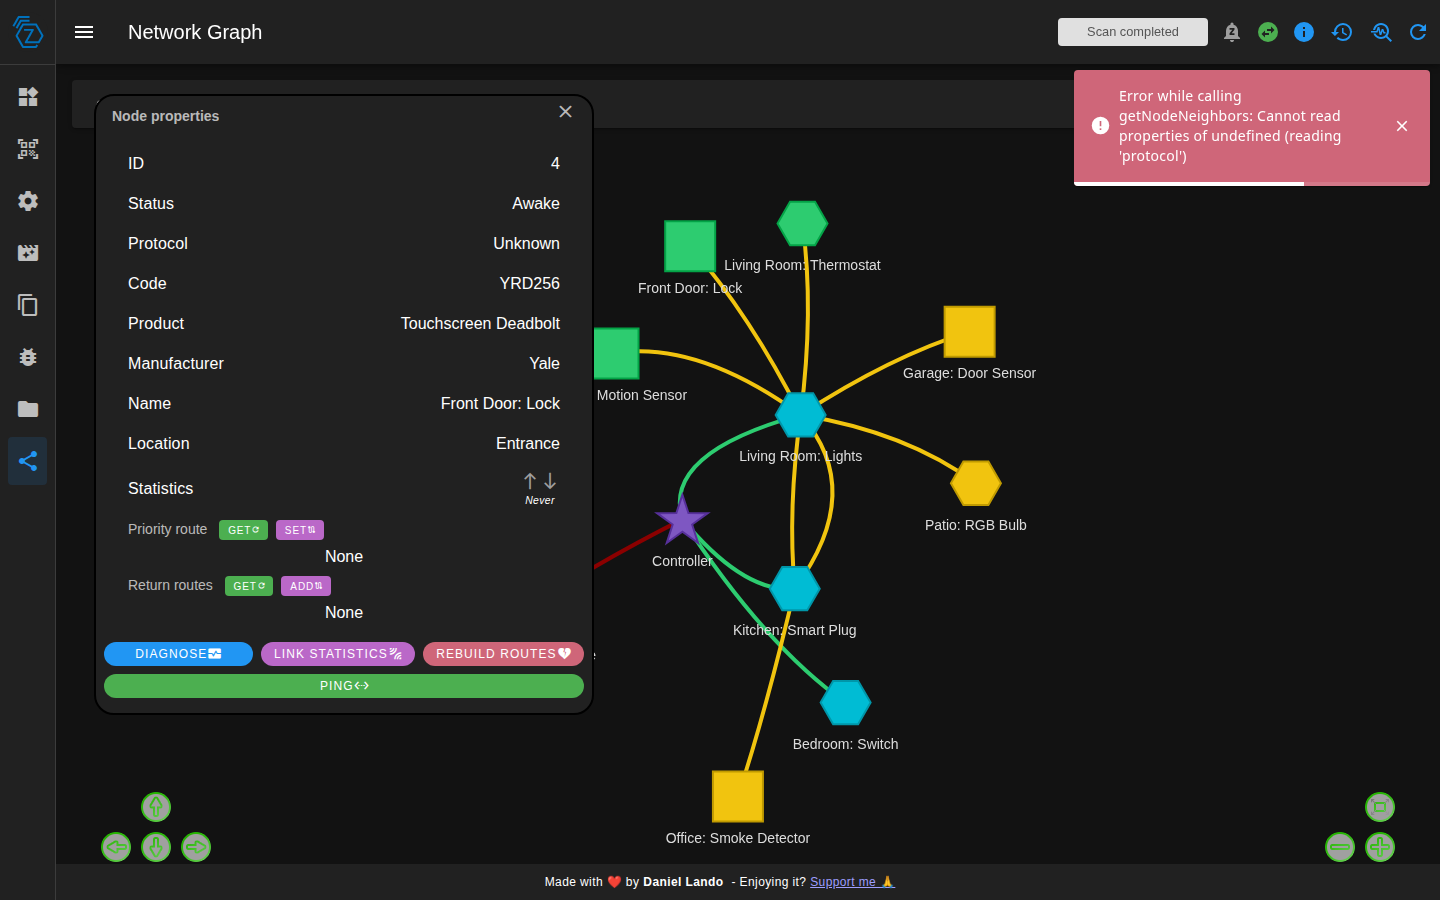
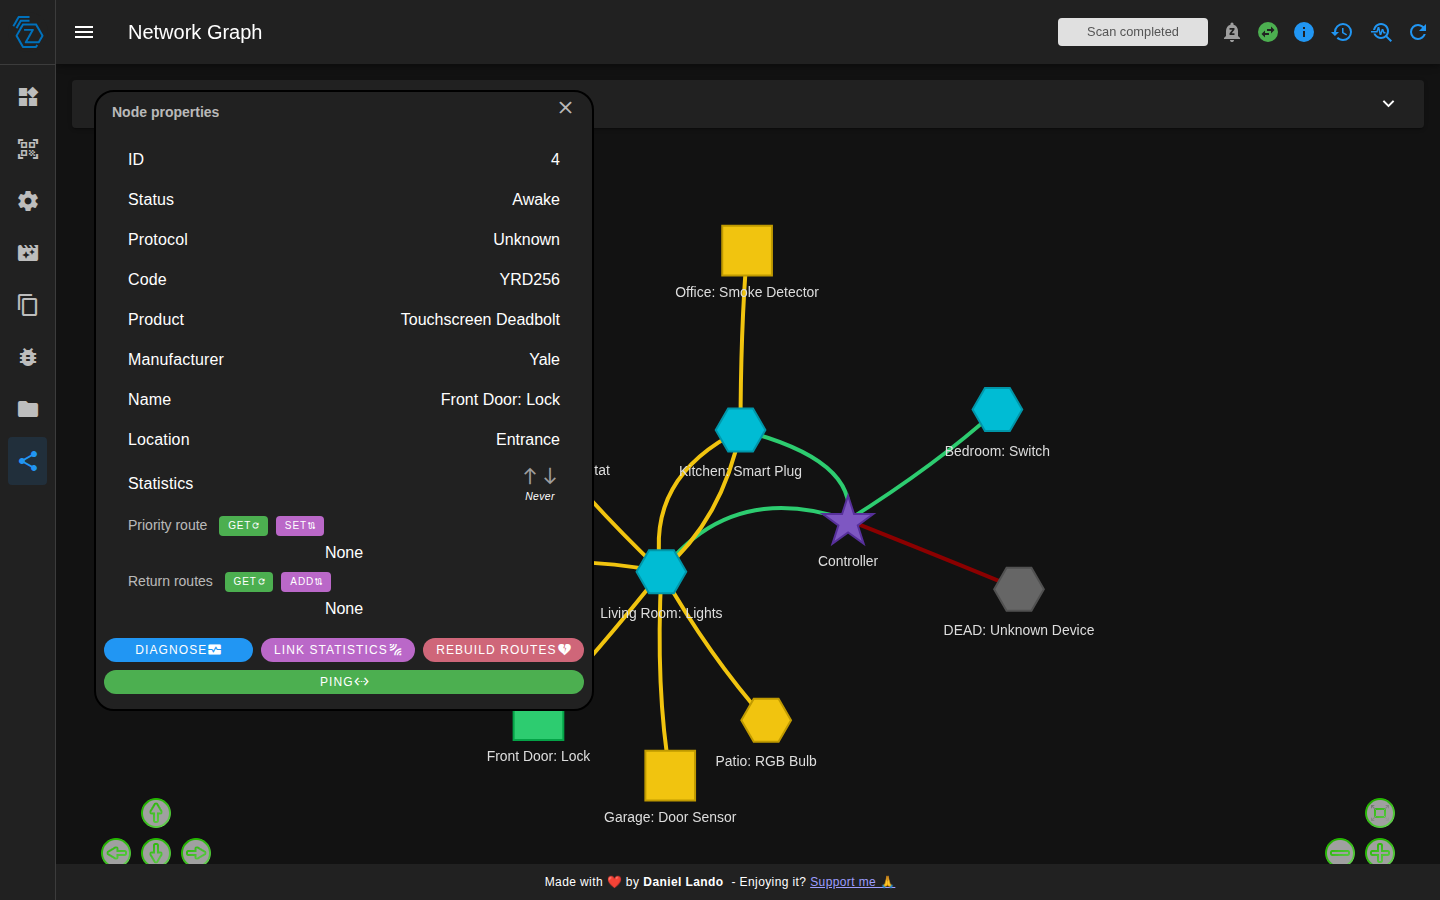
fix: remove toasts from screenshots

diff --git a/src/App.vue b/src/App.vue
@@ -950,6 +950,15 @@ export default {
 		dismissSnackbar(toastId) {
 			toast.dismiss(toastId)
 		},
+		/**
+		 * Dismiss every visible snackbar/toast at once. `toast.dismiss()` with
+		 * no id clears the whole stack. Wired to the `zwave:dismiss-snackbars`
+		 * DOM event in `mounted()` so automation (e.g. the docs-screenshot
+		 * capture script) can guarantee a toast-free frame before capturing.
+		 */
+		dismissAllSnackbars() {
+			toast.dismiss()
+		},
 		showSnackbar(text, color, options = { timeout: 3000 }) {
 			const { timeout, ...rest } = options
 			const toastOptions = {
@@ -1921,6 +1930,12 @@ export default {
 				})
 			},
 			{ once: true },
+		)
+
+		// Lets automation (docs-screenshot capture) clear all toasts on demand.
+		document.addEventListener(
+			'zwave:dismiss-snackbars',
+			this.dismissAllSnackbars,
 		)
 
 		// system dark mode

diff --git a/.claude/skills/refresh-docs-screenshots/SKILL.md b/.claude/skills/refresh-docs-screenshots/SKILL.md
@@ -192,6 +192,14 @@ Each entry in `manifest.json`:
 
 Theme handling lives outside `preActions`: capture.mjs sets `localStorage.colorScheme` via Playwright's `addInitScript` (runs before page scripts) **and** sets the BrowserContext's `colorScheme` (so `prefers-color-scheme` matches when the app falls back to `'system'`). Note: settings stores primitives as plain strings (`src/modules/Settings.js:65`); never `JSON.stringify` the theme value.
 
+### Toasts / snackbars are auto-dismissed
+
+`capture.mjs` clears **every** visible snackbar/toast immediately before each screenshot — `takeScreenshot()` calls `dismissToasts(page)` first. So manifest authors never need to account for transient toasts: the `API … called` info toast that fires on every socket request, one-off error toasts (e.g. `getNodeNeighbors` against a UI-only fake node), the "new version" snackbar, etc. all get swept before the shutter.
+
+Mechanism: capture.mjs dispatches a `zwave:dismiss-snackbars` DOM event; `src/App.vue` listens for it (registered in `mounted()`) and runs `dismissAllSnackbars()`, which calls `toast.dismiss()` with no id — vuetify-sonner clears the whole stack. capture.mjs then waits (≤2 s) for the `[data-sonner-toast]` nodes to leave the DOM, so the exit animation finishes before capture. If the running build predates the App.vue hook the event is a harmless no-op and capture continues.
+
+Do **not** add `preActions` that click toast close buttons — dismissal is centralized and runs for every shot.
+
 ### Clipping (partial-screen screenshots)
 
 Default behavior is a viewport-sized screenshot. To capture only part of the page, add a `clip` field to the entry:
@@ -269,6 +277,7 @@ After the loop:
 - **Sticky bottom detail panel ("Send Options", "Device …") on the Control Panel**: socket pushed a previously-selected node. Move `fakeNodes.json` aside *before* the backend starts; if it's already running, send `clearAppState` and re-navigate.
 - **Mesh diagram is empty even with `fakeNodes.json` seeded**: the canvas is rendered async after the WebSocket settles. Bump `settle` to 2500 ms+ for `mesh_*.png` entries. Also confirm `node.statistics.lwr.repeaters[]` exists in the seed — without it the graph has no edges.
 - **`mesh-selected.png` / `route_health_result.png` show the graph but no popup**: the test hook isn't loaded. capture.mjs sets `localStorage.exposeZwaveGraph='1'` before page load, but if the build is older than the source change in `ZwaveGraph.vue` that introduced the hook, `window.__zwGraph` won't exist. Run `npm run build:ui` to refresh `dist/`, then capture again. Don't fall back to coordinate-based canvas clicks — vis-network's physics layout is non-deterministic, and the click will land on empty space about half the time.
+- **A toast/snackbar still leaks into a shot**: capture.mjs dismisses toasts via the `zwave:dismiss-snackbars` event (see "Toasts / snackbars are auto-dismissed"). If one survives, the running build is older than the App.vue hook — rebuild with `npm run build:ui` and re-capture. A toast that *re-fires* after dismissal (a request completing between dismiss and shutter) is rare; add a short `{ "settle": 400 }` as the last preAction so the request settles first.
 - **`config_updates_*` shots show no badge**: the Pinia store mutation didn't take. Check that `document.querySelector('#app').__vue_app__` is non-null at exec time (i.e. `wait` for at least one app-rendered selector first). Pinia store id is `'base'`; `_s.get('base')` is the access path.
 - **Dialog screenshots show the page behind, not the dialog**: the click selector resolved but the modal hadn't transitioned. Add `{ "wait": ".v-overlay--active" }` after the click. Vuetify 3 uses `.v-overlay--active`, not `.v-dialog--active`.
 - **Backend serves blank or 404 for `/`**: bundle missing — run `npm run build:ui` once before starting `dev:server`.